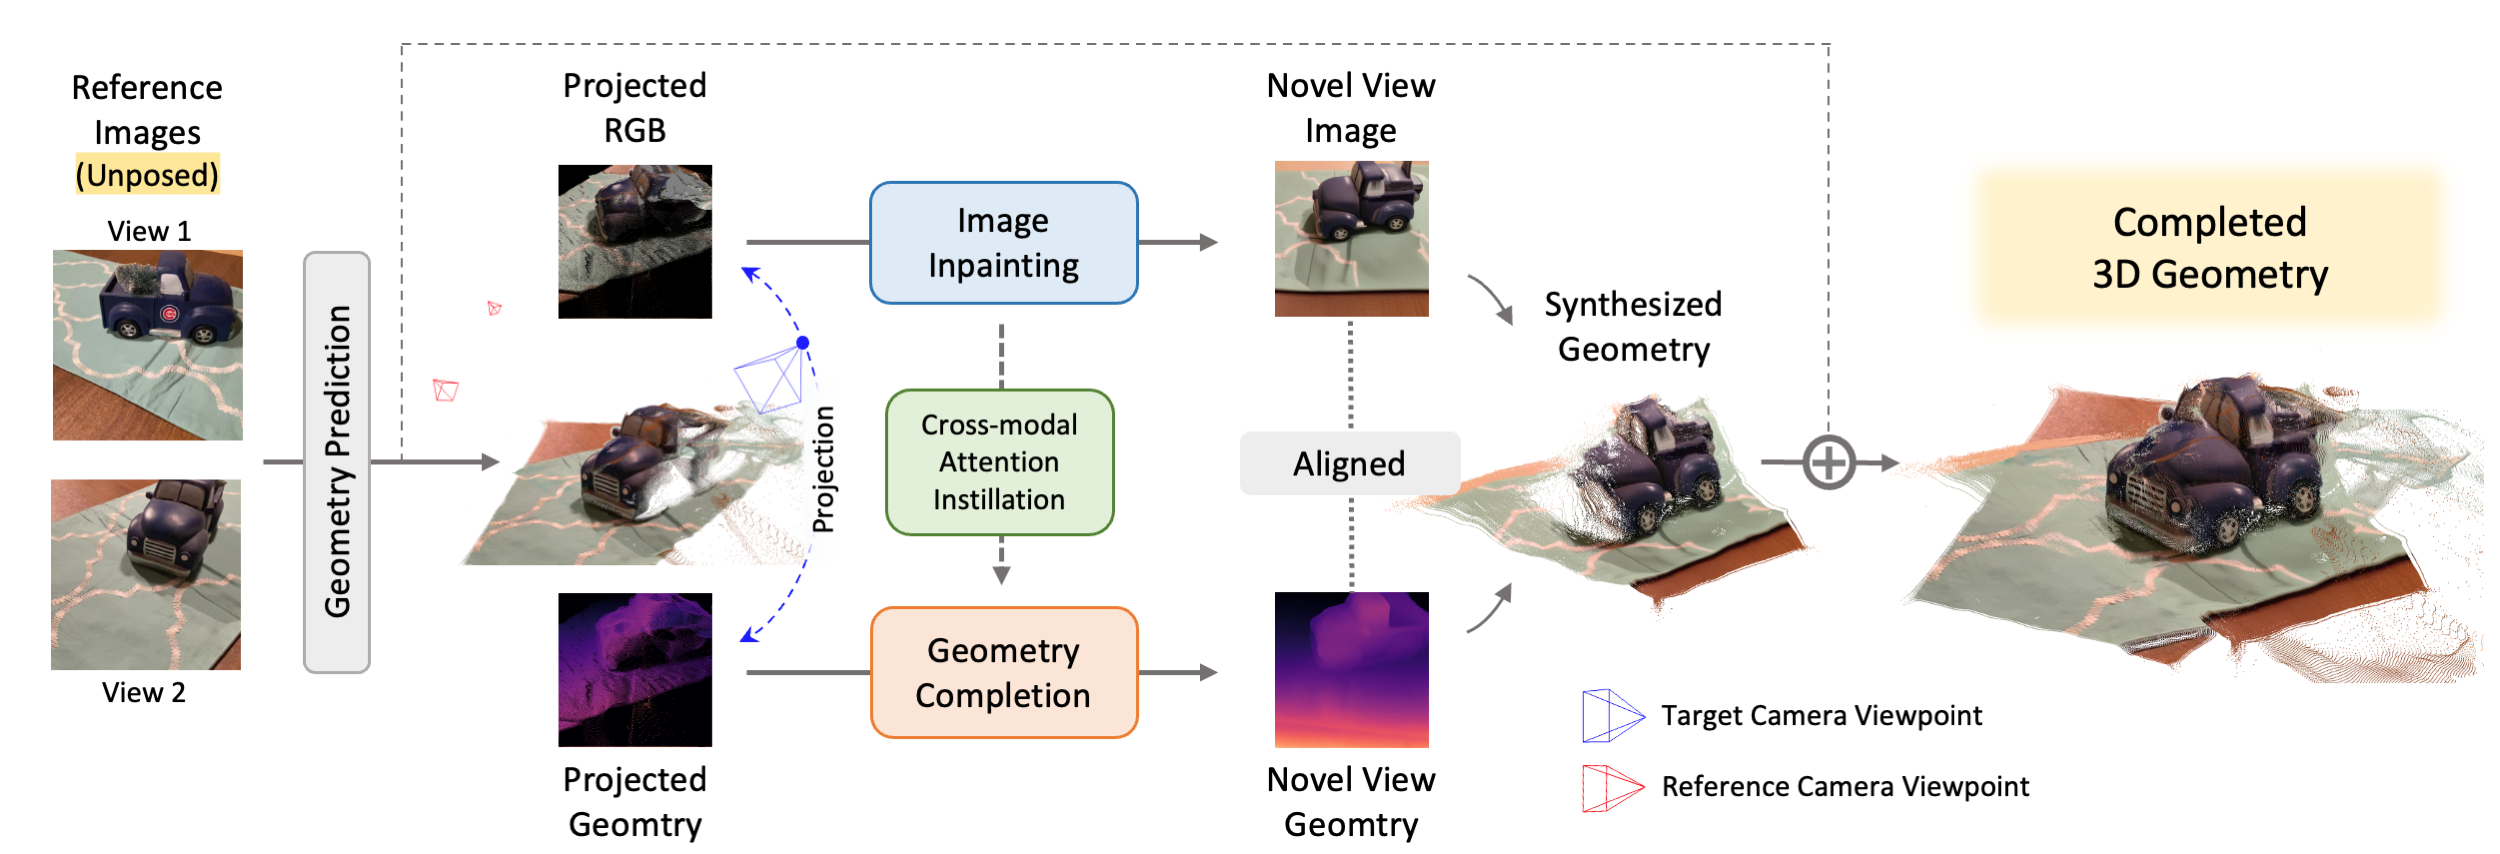
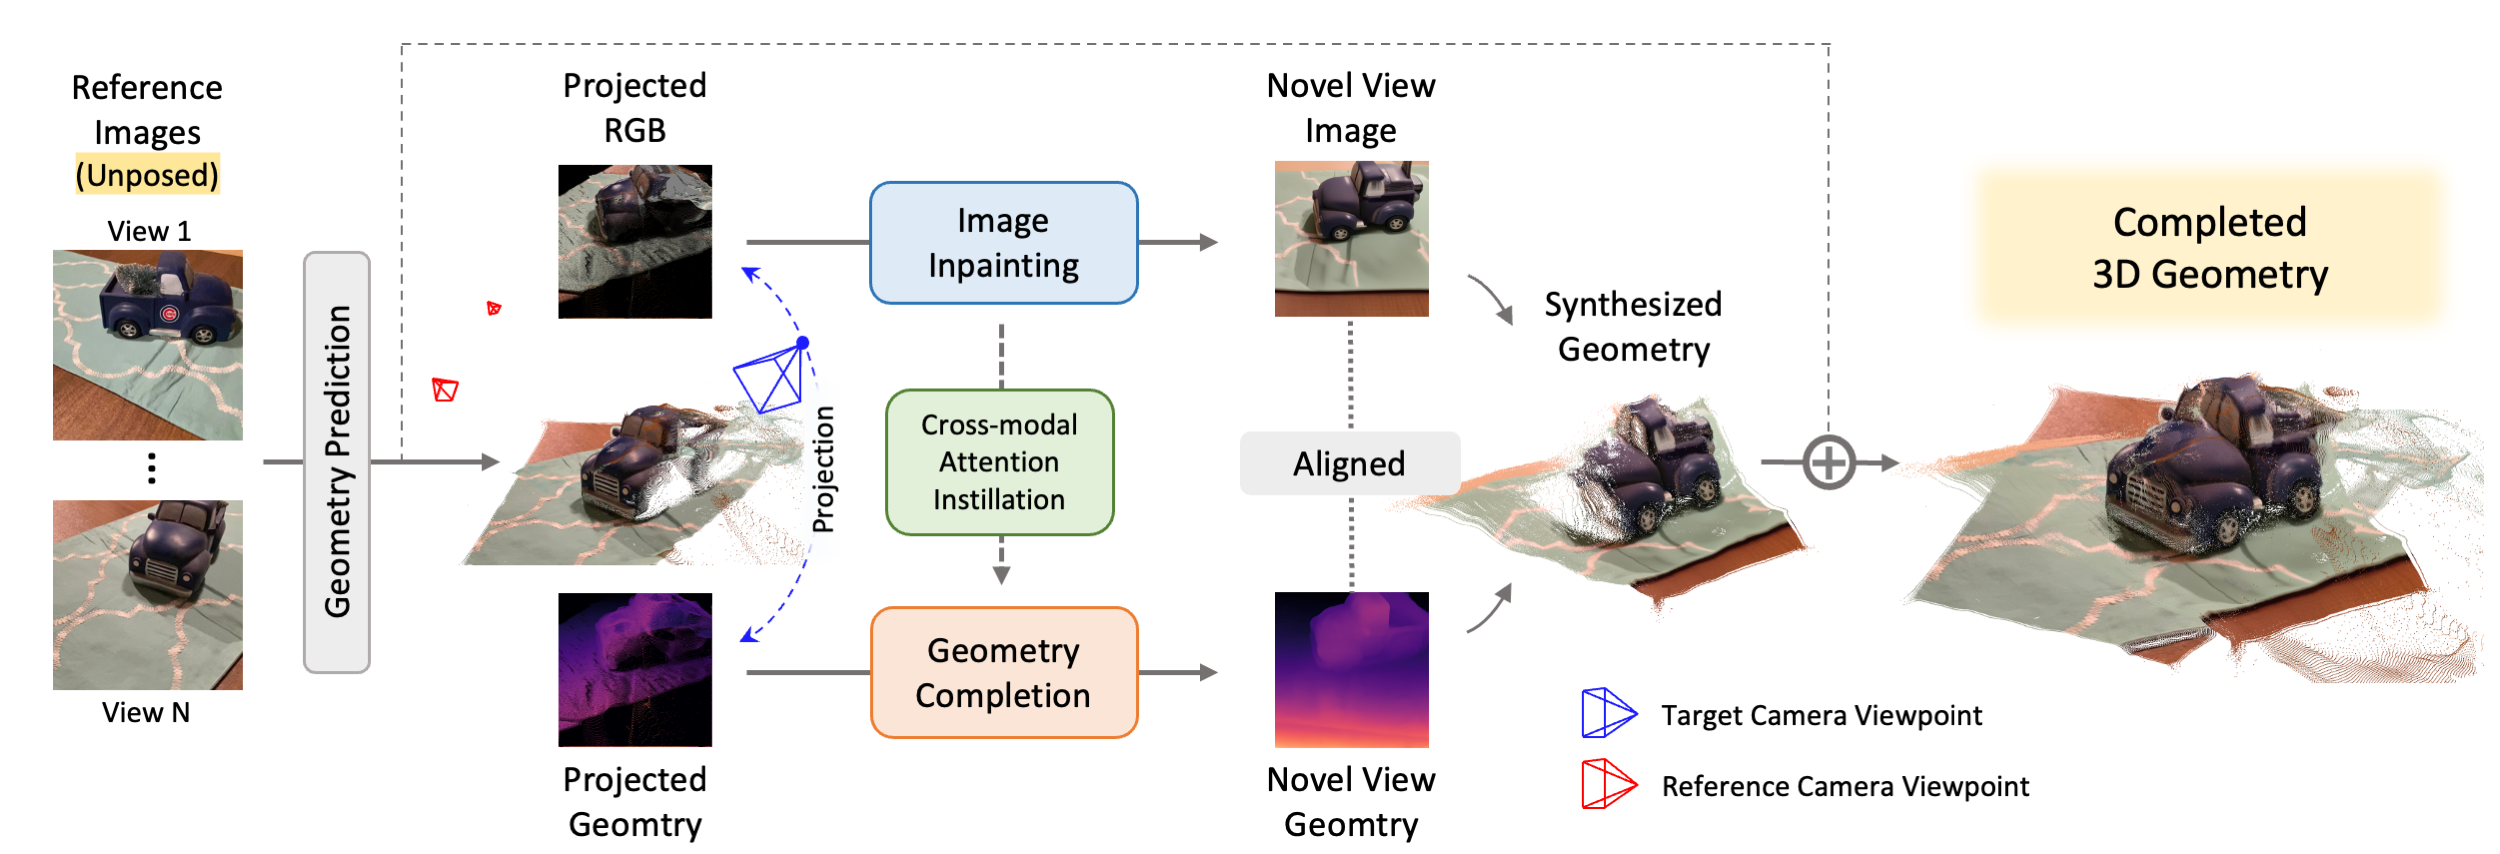
page

diff --git a/index.html b/index.html
@@ -126,7 +126,7 @@
                     <ul class="nav nav-pills nav-justified">
                         <li>
                             <a href="https://arxiv.org/abs/2406.16695" target="_blank">
-                            <img src="./img/paper_image.png" height="60px">
+                            <img src="./img/first_page.png" height="60px">
                                 <h4><strong>Paper</strong></h4>
                             </a>
                         </li>
@@ -238,7 +238,7 @@
                 <div class="text-center">
                 <!-- <video id="ide" width="100%" playsinline autoplay loop muted controls style="margin-top: 10px;">
                     <source src="video/3Dgen_video.mp4" type="video/mp4" /> -->
-                <img src="./img/full_method.png" width="100%">
+                <img src="./img/real_final_training_figure.png" width="100%">
                 </div>
                 <br>
                 Our method conducts cross-modal attention instillation, replacing the spatial attention maps of geometry denoising U-Net with image denoising U-Net's spatial attention maps, so that the image generation U-Net learns a more robust representation aligned with the geometry completion task. On the other hand, the geometry prediction networks leverage the rich semantics from image features to enhance geometry completion capability.
